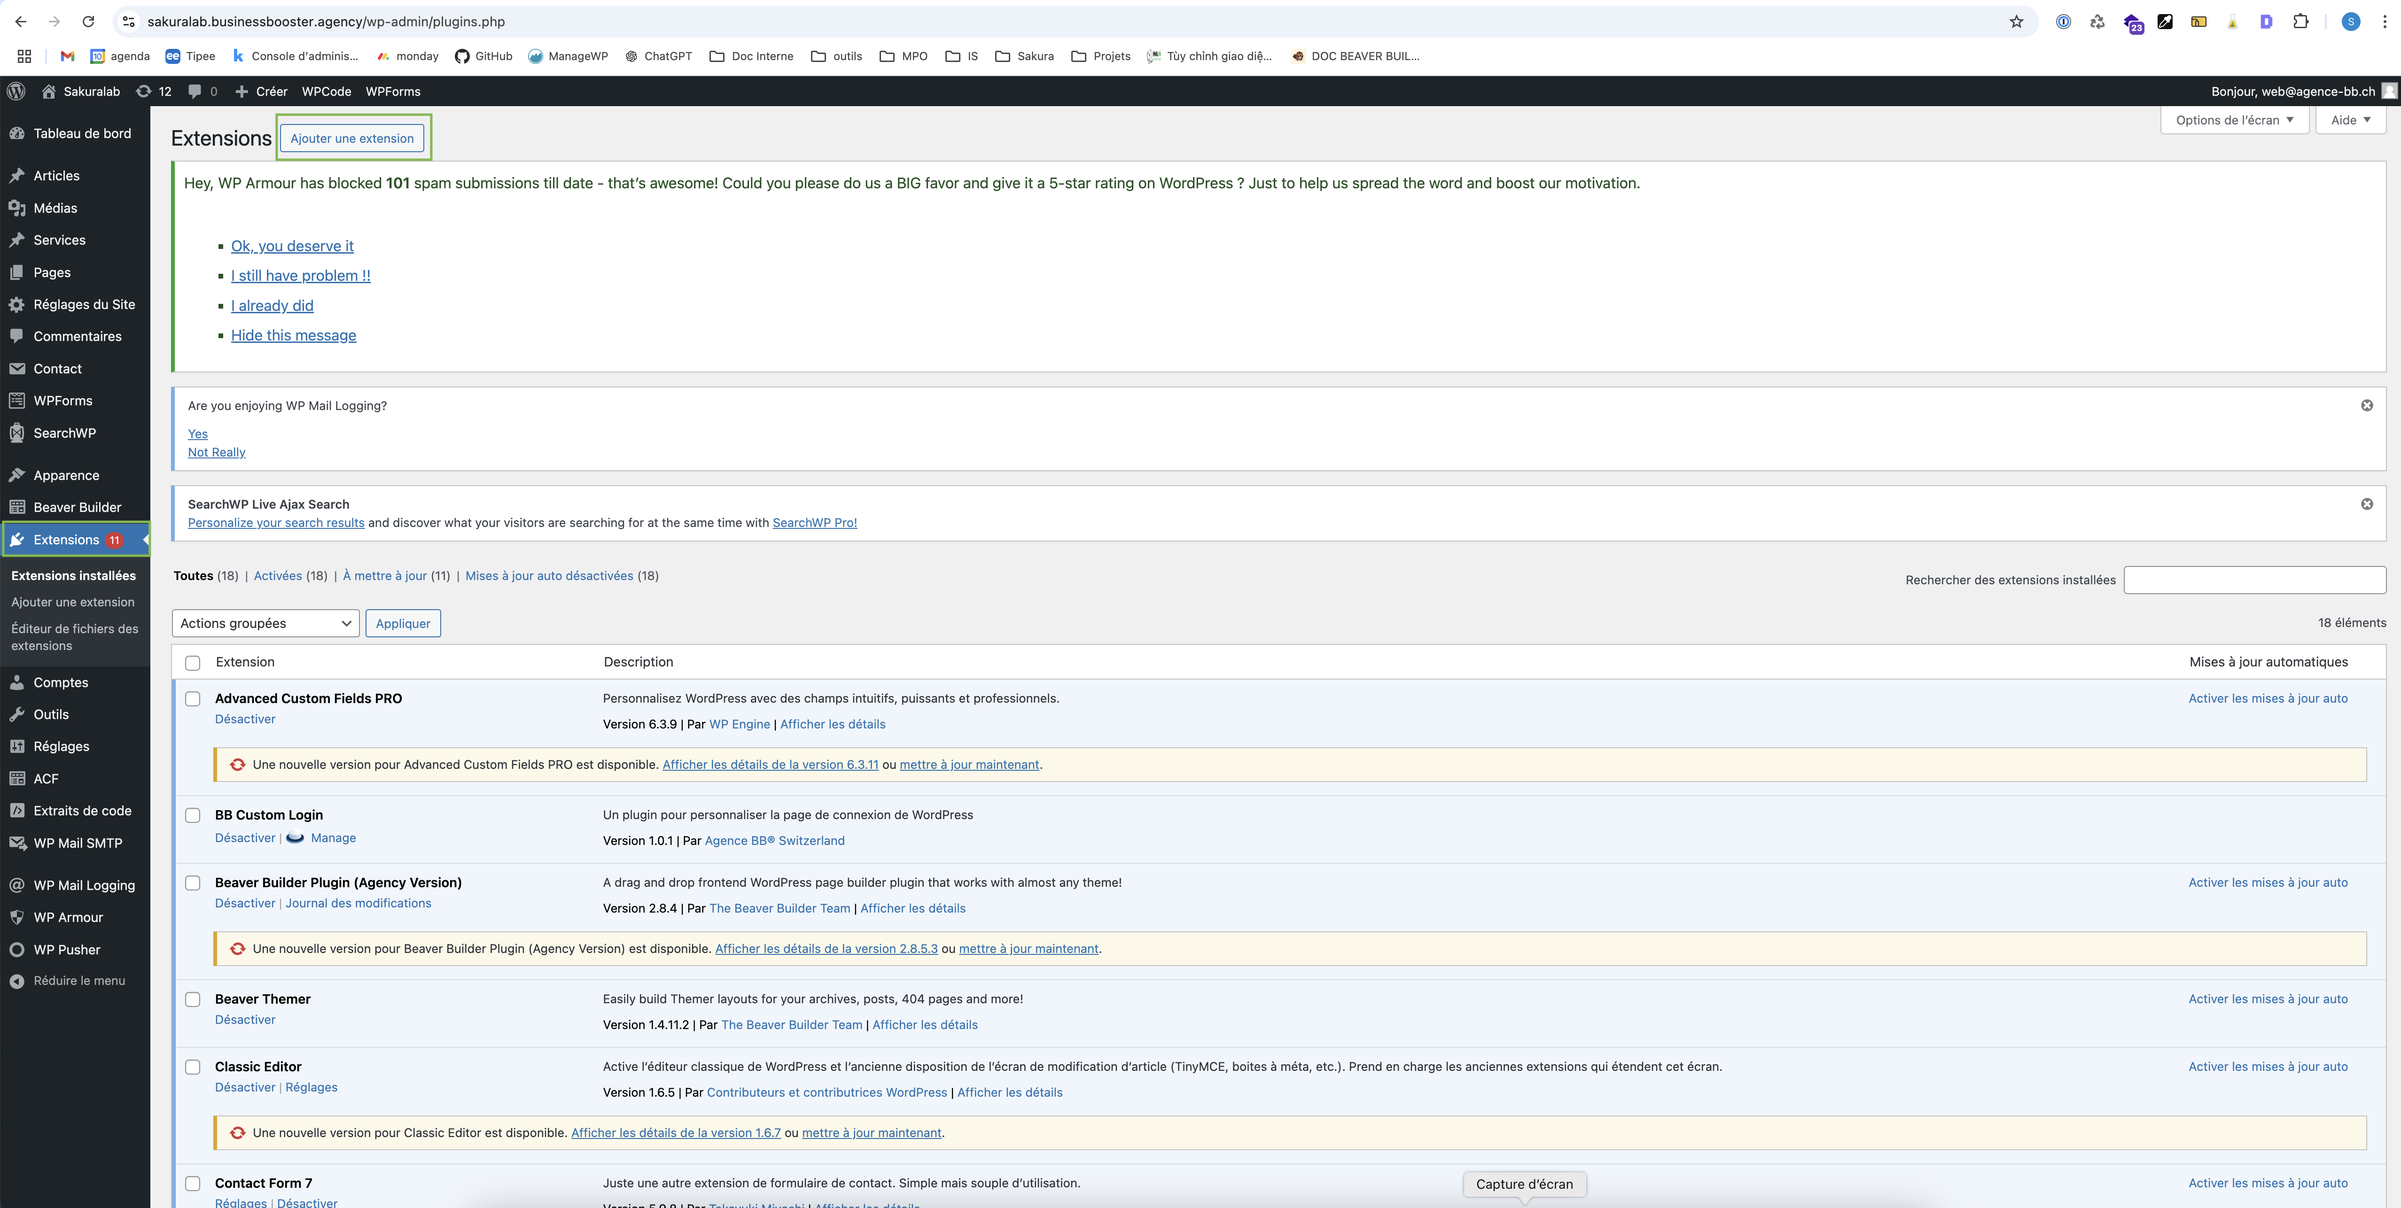
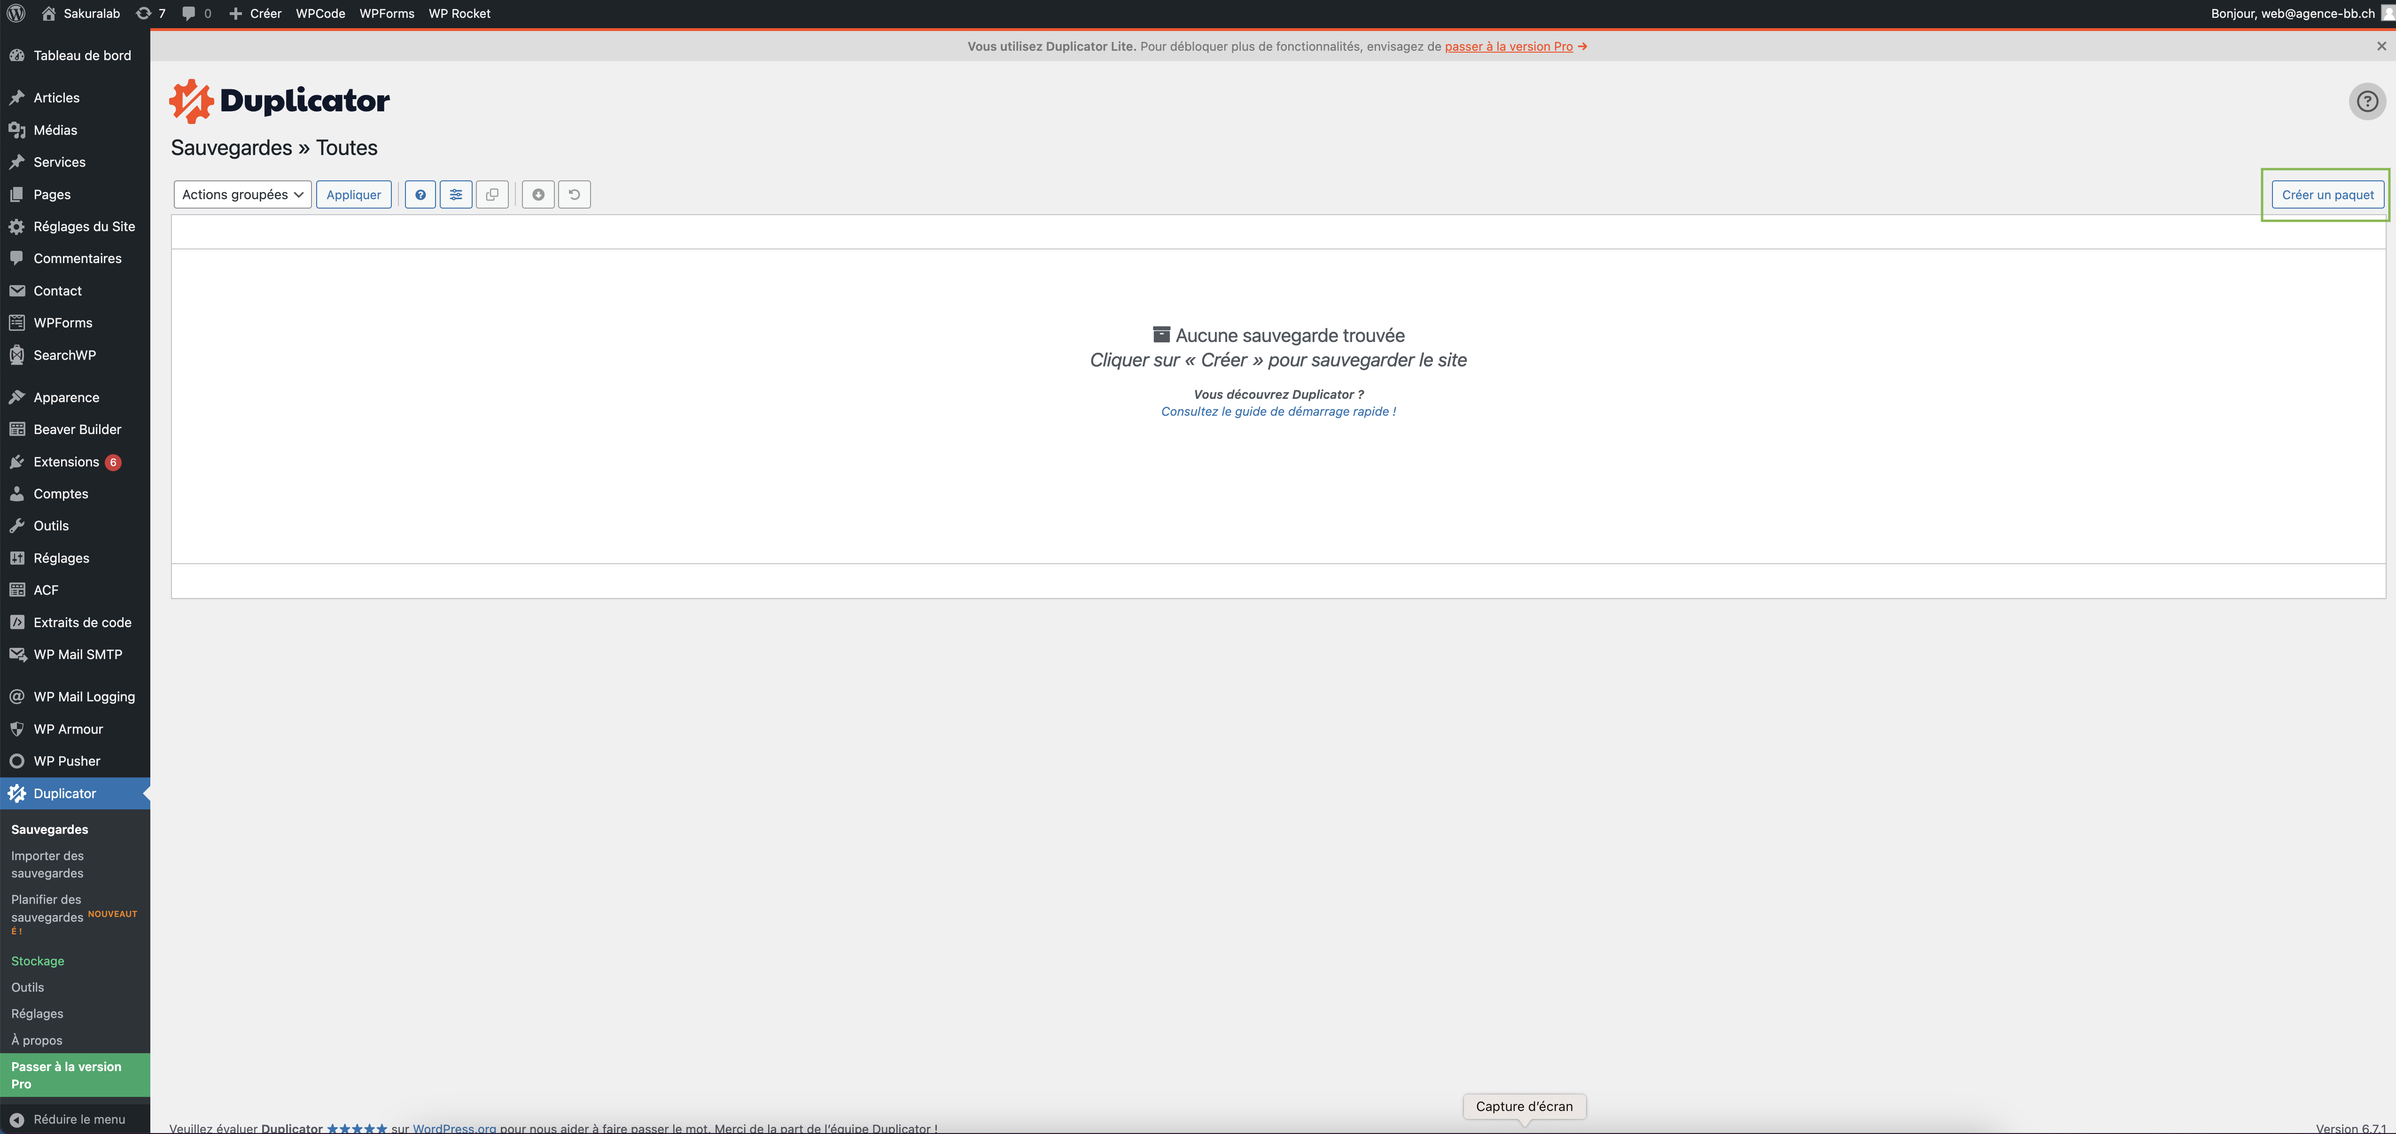
add create new domaine and create archive

diff --git a/docs/migration-wordpress/requirements_create-archive.md b/docs/migration-wordpress/requirements_create-archive.md
@@ -1,0 +1,81 @@
+---
+sidebar_position: 3
+---
+
+# Création du paquet pour la migration
+
+L'outil **Duplicator** est un plugin WordPress permettant de créer une copie complète de votre site, incluant la base de données et tous les fichiers nécessaires à sa mise en ligne sur un nouveau serveur. Cette étape vous guidera dans l'installation du plugin Duplicator et la création du paquet de migration.
+
+### Installer le plugin "Duplicator" sur le site WordPress à migrer  
+Depuis le tableau de bord WordPress de votre site, accédez au menu **Extensions** puis cliquez sur **Ajouter**.  
+![Ajouter une extension](./img/install_duplicator_1.png)
+
+### Installer Duplicator  
+Dans la barre de recherche en haut à droite, tapez "Duplicator" et cliquez sur **Installer maintenant**
+
+![Installer Duplicator](./img/install_duplicator_2.png)  
+Une fois l'installation terminée, cliquez sur **Activer** pour activer le plugin sur votre site.
+
+### Débloquer la limite de taille des fichiers téléchargés  
+Avant de commencer la création du paquet de migration avec Duplicator, il est nécessaire de débloquer la limite de taille des fichiers téléchargés sur votre serveur. Voici les étapes à suivre :
+
+1. Connectez-vous à la plateforme Infomaniak et, dans le menu à gauche, cliquez sur **Web & Domaines**.  
+   ![Menu Web & Domain](./img/save_bdd_2.png)
+
+2. Dans le menu qui apparaît, sélectionnez **Site Web**.  
+   ![Menu Site Web](./img/save_bdd_3.png)
+
+3. Recherchez votre site dans la liste et cliquez dessus pour accéder à sa gestion.  
+   ![Recherche et Sélection du site](./img/save_bdd_4.png)
+
+4. Dans la fenêtre qui s'ouvre, faites défiler la page jusqu'à la section **Version PHP** en bas et cliquez sur **Modifier**.  
+   ![Modifier la version PHP](./img/debloquer_la_limite_php_1.png)
+
+5. Cochez la case **Débloquer ces limites pendant 60 minutes**.  
+   ![Débloquer les limites PHP](./img/debloquer_la_limite_php.png)
+
+:::warning
+
+Avant d'enregistrer les modifications, assurez-vous d'être prêt à lancer immédiatement la création du paquet de migration avec Duplicator. Cette étape peut prendre un peu de temps, en fonction de la taille de votre site. La dérogation de la limite de taille est temporaire (60 minutes).
+
+:::
+
+6. Cliquez sur le bouton **Enregistrer** en bas à droite pour enregistrer les modifications.  
+![Enregistrer les modifications](./img/debloquer_la_limite_php_2.png)
+
+### Création du paquet
+
+1. **Accéder à Duplicator :**
+   - Dans l'administration de WordPress, cliquez sur le menu **Duplicator**.
+   - En haut à droite, cliquez sur le bouton **Créer un paquet**.
+   
+   ![Créer un paquet](./img/duplicator_1.png)
+
+2. **Choisir le contenu du paquet :**
+   - Vous pouvez définir les éléments à inclure dans le paquet (base de données, pages, archives, cache).
+   - Par défaut, Duplicator crée un paquet de l'intégralité du site, incluant la base de données. C'est ce que nous souhaitons faire ici.
+   - Cliquez simplement sur **Suivant**.
+
+   ![Sélection du contenu](./img/duplicator_2.png)
+
+3. **Scan du site :**
+   - Avant de générer les fichiers, Duplicator effectue un scan du site. Ce processus peut prendre quelques minutes, en fonction de la taille du site.
+   
+   ![Scan du site](./img/duplicator_3.png)
+
+4. **Vérification de la configuration :**
+   - À la fin du scan, Duplicator vérifie si le site est correctement configuré pour la création du paquet.
+   - Si tout est correct, cliquez sur **Suivant**.
+
+   ![Vérification de la configuration](./img/duplicator_4.png)
+
+5. **Création du paquet :**
+   - La création du paquet commence. Ce processus peut prendre du temps, selon la taille du site.
+   
+   ![Création du paquet](./img/duplicator_5.png)
+
+6. **Téléchargement des fichiers :**
+   - Une fois la création terminée, Duplicator vous propose deux fichiers à télécharger : l'installeur et l'archive pour la migration. Vous aurez besoin des deux.
+   - Cliquez simplement sur le bouton **Télécharger les deux fichiers** pour récupérer les fichiers.
+
+   ![Téléchargement des fichiers](./img/duplicator_6.png)

diff --git a/docs/migration-wordpress/migration_install.md b/docs/migration-wordpress/migration_install.md
@@ -1,0 +1,86 @@
+---
+sidebar_position: 5
+---
+
+# Migration
+
+Ce guide décrit les étapes nécessaires pour migrer votre site WordPress vers un nouveau domaine en utilisant le service FTP d'Infomaniak
+
+### 1. Accéder au menu FTP/SSH
+
+Rendez-vous sur le domaine du site pour la mise en ligne (utilisez le nouveau domaine que vous avez créé à l'étape précédente).
+
+1. Une fois connecté, cliquez sur **Web & Domaines** dans la barre de navigation à gauche.  
+   ![Menu Web & Domain](./img/save_bdd_2.png)
+
+2. Dans le menu qui apparaît, sélectionnez **Site Web**.  
+   > *(Capture d'écran à ajouter ici)*
+
+3. Recherchez votre site dans la liste et cliquez dessus pour accéder à sa gestion.  
+   > *(Capture d'écran à ajouter ici)*
+
+4. Dans la fenêtre qui s'ouvre, cliquez sur le bouton **"<"** pour afficher le menu principal de l'application.  
+   ![Bases de données](./img/save_bdd_7.png)
+
+5. Dans le menu qui s'affiche, cliquez sur l'option **FTP/SSH**. Ensuite, cliquez sur le bouton **Web FTP** pour ouvrir l'interface FTP.  
+   ![Web FTP](./img/wp_config_php_1.png)
+
+### 2. Connexion au serveur FTP
+
+Dans la fenêtre qui s'ouvre, cliquez sur le bouton **Connexion** pour établir la connexion avec le serveur FTP.  
+![Connexion au serveur FTP](./img/wp_config_php_2.png)
+
+### 3. Naviguer dans les dossiers
+
+Une fois connecté, naviguez dans le dossier **sites**.  
+> *(Capture d'écran à ajouter ici)*
+
+### 4. Déplacer les Fichiers Générés par Duplicator
+
+1. Dans ce dossier, recherchez le dossier du nouveau site (ex : **sakuralab**).  
+   > *(Capture d'écran à ajouter ici)*
+
+2. Renommez temporairement ce dossier en **old_nom_de_votre_dossier** (ex : **old_sakuralab**).  
+   > *(Capture d'écran à ajouter ici)*
+
+3. Créez un nouveau dossier avec exactement le même nom que celui que vous venez de renommer (ex : **sakuralab**).  
+   > *(Capture d'écran à ajouter ici)*
+
+4. Dans ce nouveau dossier, déplacez les deux fichiers générés par Duplicator :
+   - **qqch_nom_du_site_qqch_archive.zip**
+   - **installer.php**  
+   > *(Capture d'écran à ajouter ici)*
+
+### 5. Vider la base de données
+
+:::info **Avant de lancer l'installation...**  
+Lorsque vous avez créé votre nouveau site WordPress, une base de données a également été créée. Pour que l'installation se déroule correctement, vous devez d'abord vider cette base de données afin que l'installateur généré par Duplicator puisse la remplir avec les informations du site à migrer.
+:::
+
+1. Connectez-vous à **phpMyAdmin** pour accéder à la base de données de votre nouveau site.
+
+2. Supprimez toutes les tables ou videz-les.  
+   >*(Vérifiez avec Charles pour la méthode exacte à utiliser.)*
+
+### 6. Lancer l'installation
+
+Ouvrez votre navigateur et entrez l'adresse du nouveau site web en ajoutant **/installer.php** à la fin de l'URL. Par exemple :  
+`sakuralab.ch/installer.php`
+
+> *(Ajoutez des étapes et captures d'écran ici pour guider l'utilisateur à travers l'installation.)*
+
+### 7. Finalisation
+
+1. Une fois l'installation terminée, accédez à l'administration WordPress de votre nouveau site pour l'indexer.  
+   > *(Ajoutez des étapes et captures d'écran ici pour cette procédure.)*
+
+2. Si tout s'est bien passé, vous pouvez maintenant supprimer le dossier en FTP que vous aviez précédemment renommé en **old_nom_de_votre_site** (ex : **old_sakuralab**).  
+   > *(Ajoutez des étapes et captures d'écran ici pour montrer comment supprimer le dossier.)*
+
+
+
+:::info**Conclusion**
+
+La migration de votre site WordPress est maintenant terminée. Si vous rencontrez des problèmes ou si vous avez des questions supplémentaires, n'hésitez pas à consulter la documentation de Duplicator ou à contacter votre administrateur système.
+
+:::

diff --git a/docs/migration-wordpress/migration_create_new_domaine.md b/docs/migration-wordpress/migration_create_new_domaine.md
@@ -1,0 +1,61 @@
+---
+sidebar_position: 4
+---
+
+# Création d'un nouvel hébergement sur Infomaniak
+
+Cette documentation explique les étapes à suivre pour commander un nouvel hébergement sur Infomaniak afin de mettre en production un site web que vous souhaitez migrer.
+
+:::info[Différence entre un domaine de production et un domaine de développement]
+
+Le **domaine de production** est l'URL publique de votre site web, celle à laquelle vos utilisateurs finaux accèdent.
+
+- **Exemple** : [https://sakuralab.ch](https://sakuralab.ch)
+- **Utilisation** : C'est le domaine où le site est mis en ligne et accessible au public.
+
+Le **domaine de développement** est une version temporaire utilisée pour tester ou développer votre site. Il permet de prévisualiser les changements avant leur mise en production.
+
+- **Exemple** : [https://sakuralab.businessbooster.agency](https://sakuralab.businessbooster.agency)
+- **Utilisation** : Développement et test des nouvelles fonctionnalités, ainsi que vérification de l'intégration des nouvelles versions du site.
+
+Dans ce cas, nous souhaitons migrer le site qui se trouve actuellement sur le domaine de développement [https://sakuralab.businessbooster.agency](https://sakuralab.businessbooster.agency) vers le nouveau domaine [https://sakuralab.ch](https://sakuralab.ch).
+
+Pour cela, il est nécessaire de disposer d'un hébergement et d'un domaine pour la mise en production.
+
+:::
+
+## 1. Étapes pour commander un nouvel hébergement sur Infomaniak
+
+1. **Se connecter à votre compte Infomaniak**
+
+   Rendez-vous sur le site [Infomaniak](https://www.infomaniak.com/) et connectez-vous à votre compte.
+
+2. **Accéder à la gestion des hébergements**
+
+   Une fois connecté, dans le menu principal, cliquez sur **Hébergement**, puis sélectionnez **Commander un hébergement**.
+
+3. **Choisir le type d'hébergement**
+
+   Infomaniak propose différents types d’hébergement (Hébergement Web, Hébergement Cloud, etc.). Sélectionnez l'option la plus adaptée à vos besoins. Pour un site classique, un **hébergement Web** suffit généralement.
+
+   **Exemple** : Si vous souhaitez héberger un site web professionnel avec une bande passante élevée et des options de sécurité avancées, optez pour un plan comme **Hébergement Web Pro**.
+
+4. **Sélectionner un domaine ou en acheter un**
+
+   Vous serez invité à choisir un domaine pour votre hébergement. Si vous n'avez pas encore de domaine, vous pouvez en acheter un directement sur Infomaniak.
+
+   **Exemple** : Si vous possédez déjà un domaine, vous pouvez le lier à votre nouvel hébergement. Sinon, vous pouvez en acheter un, comme `sakuralab.ch`.
+
+5. **Configurer les options de l'hébergement**
+
+   Après avoir sélectionné votre plan d'hébergement, configurez les options supplémentaires (sauvegardes, sécurité SSL, etc.). Il est important de choisir un certificat SSL pour sécuriser votre site, en particulier pour les sites en production.
+
+6. **Finaliser la commande et effectuer le paiement**
+
+   Une fois toutes les options sélectionnées, passez à la validation et au paiement de votre commande. Vous recevrez ensuite les informations nécessaires pour accéder à votre hébergement.
+
+## 2. Creer un site wordpress avec l'admin d'infomaniak
+ > ajouter texte et captures d'écrant ici
+
+## 3. Déploiement du site sur le nouveau hébergement
+Une fois l’hébergement configuré et le nouveau site worppress installer, vous pouvez migrer votre site web en utilisant l'outil FTP d'Infomaniak.

diff --git a/docs/migration-wordpress/requirements_save_bdd.md b/docs/migration-wordpress/requirements_save_bdd.md
@@ -1,0 +1,47 @@
+---
+sidebar_position: 1
+---
+
+# Créer une sauvegarde
+
+Avant de procéder à la mise en ligne de votre site, il est important de créer une sauvegarde de la base de données du site afin d'éviter toute perte d'information. Cela permet de restaurer votre site à son état actuel en cas de problème lors de la migration.
+
+### 1. Connexion à Infomaniak 
+   Rendez-vous sur [https://manager.infomaniak.com/](https://manager.infomaniak.com/) et connectez-vous à votre compte Infomaniak.  
+   ![Connexion à Infomaniak](./img/save_bdd_1.png)
+
+### 2. Accéder au menu "Web & Domain"  
+   Une fois connecté, cliquez sur **Web & Domain** dans la barre de navigation à gauche.  
+   ![Menu Web & Domain](./img/save_bdd_2.png)
+
+### 3. Sélectionner **Site Web**
+   Dans le menu qui apparaît, choisissez **Site Web**.  
+   ![Menu Site Web](./img/save_bdd_3.png)
+
+### 4. Rechercher et sélectionner votre site 
+   Recherchez votre site dans la liste et cliquez dessus pour accéder à sa gestion.  
+   ![Recherche et Sélection du site](./img/save_bdd_4.png)
+
+### 5. Accéder aux paramètres de l'application 
+   Dans la fenêtre qui s'ouvre, allez dans la section **Applications**. Cliquez sur les trois petits points à côté de l'application WordPress et sélectionnez **Paramètres de l'application**.  
+   ![Paramètres de l'application](./img/save_bdd_5.png)
+
+### 6. Copier le nom de la base de données 
+   Faites défiler la page jusqu'en bas pour trouver le nom de la base de données. Copiez-le pour l'utiliser dans l'étape suivante.  
+   ![Nom de la base de données](./img/save_bdd_6.png)
+
+### 7. Accéder à la section "Bases de données" 
+   Retournez dans le menu précédent et sélectionnez **Bases de données**.  
+   ![Bases de données](./img/save_bdd_7.png)
+
+### 8. Rechercher la base de données
+   Dans la barre de recherche de la section **Bases de données**, collez le nom que vous avez copié précédemment.  
+   ![Rechercher la base de données](./img/save_bdd_8.png)
+
+### 9. Télécharger la sauvegarde
+   Cliquez sur les trois petits points à côté de la base de données et choisissez **Télécharger une sauvegarde**.  
+   ![Télécharger une sauvegarde](./img/save_bdd_9.png)
+
+### 10. Confirmer le téléchargement  
+   Dans la fenêtre qui s'ouvre, cliquez sur **Télécharger une sauvegarde de la base de données** pour démarrer le téléchargement.  
+   ![Téléchargement de la sauvegarde](./img/save_bdd_10.png)

diff --git a/docs/migration-wordpress/requirements_copie-bdd_infos.md b/docs/migration-wordpress/requirements_copie-bdd_infos.md
@@ -1,0 +1,48 @@
+---
+sidebar_position: 2
+---
+
+# Copier les informations de la BDD
+
+Une fois la sauvegarde de la base de données effectuée, il est temps d'extraire les informations de connexion à la base de données depuis le fichier `wp-config.php`. Ces informations vous seront nécessaires pour configurer la base de données lors de la mihration du site sur le serveur de production.
+
+### 1. Accéder au menu FTP/SSH  
+Depuis la page où vous avez lancé le téléchargement de la sauvegarde de la base de données, regardez à gauche dans le menu et cliquez sur l'option **FTP/SSH**. Ensuite, cliquez sur le bouton **Web FTP** pour ouvrir l'interface FTP.  
+![Web FTP](./img/wp_config_php_1.png)
+
+### 2. Connexion au serveur FTP  
+Dans la fenêtre qui s'ouvre, cliquez sur le bouton **Connexion** pour établir la connexion avec le serveur FTP.  
+![Connexion au serveur FTP](./img/wp_config_php_2.png)
+
+### 3. Naviguer dans les dossiers  
+Une fois connecté, naviguez dans le dossier **sites**, puis dans le dossier du site que vous souhaitez migrer.  
+![Naviguer dans le dossier](./img/wp_config_php_3.png)
+
+### 4. Trouver le fichier `wp-config.php`  
+Dans le dossier racine de votre site, cherchez le fichier **wp-config.php**. Double-cliquez dessus pour ouvrir son contenu.  
+![Fichier wp-config.php](./img/wp_config_php_4.png)
+
+### 5. Copier les informations de connexion  
+Dans le fichier `wp-config.php`, localisez les informations suivantes concernant la base de données :
+![Fichier wp-config.php](./img/wp_config_php_5.png)
+
+Ces informations sont essentielles pour connecter votre site à la base de données lors de la migration.
+
+```php
+// ** MySQL settings - You can get this info from your web host ** //
+/** The name of the database for WordPress */
+define('DB_NAME', 'nom_de_votre_base_de_donnees');
+
+/** MySQL database username */
+define('DB_USER', 'votre_utilisateur_bdd');
+
+/** MySQL database password */
+define('DB_PASSWORD', 'votre_mot_de_passe_bdd');
+
+/** MySQL hostname */
+define('DB_HOST', 'votre_hote_bdd');
+```
+
+6. **Conserver les informations de connexion**
+Gardez ces informations à portée de main, par exemple dans une note, car elles seront nécessaires plus tard dans le processus de migration.
+![Fichier wp-config.php](./img/wp_config_php_6.png)
